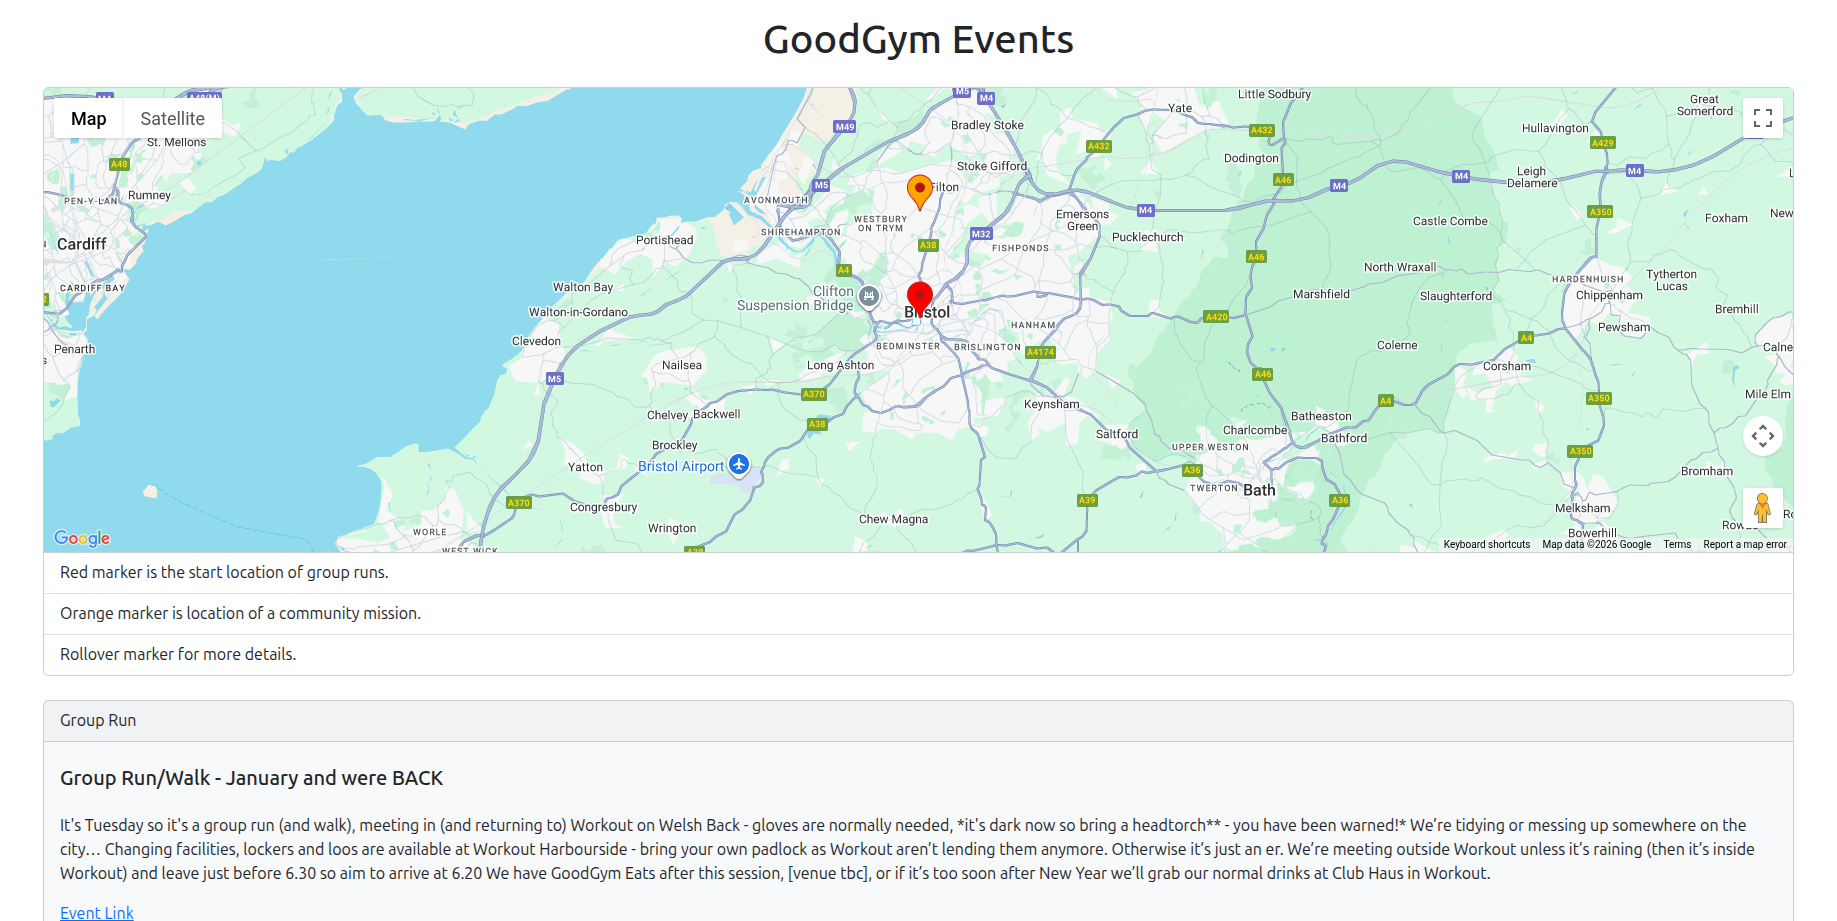
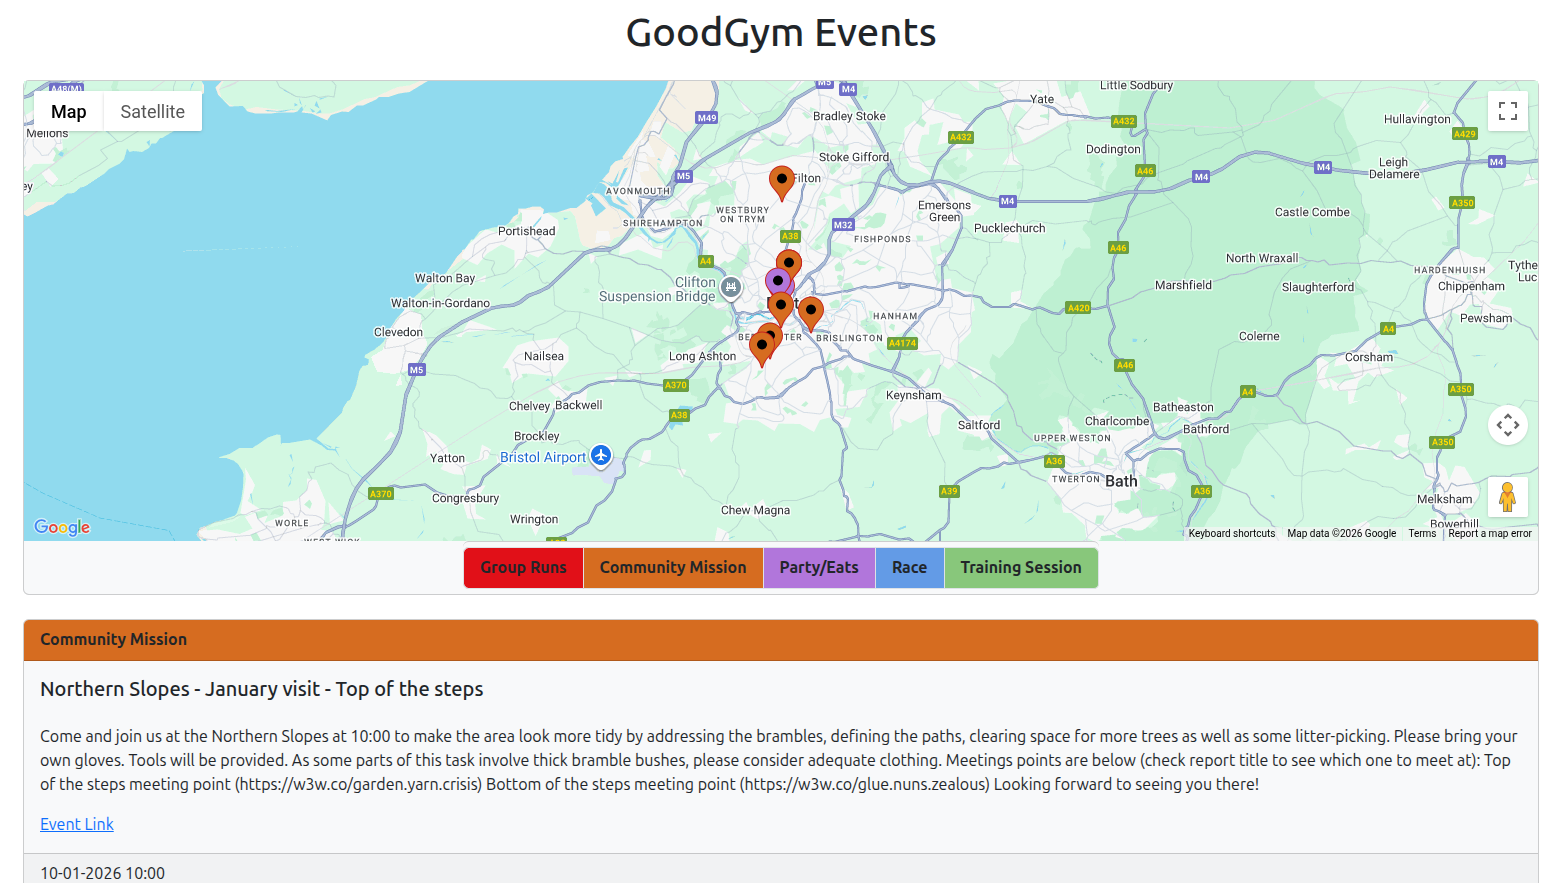
Add colours to the events in list

diff --git a/app/routes/home.tsx b/app/routes/home.tsx
@@ -91,7 +91,7 @@ export default function Home({
 
           {events.map((ev: any) => (
             <Card key={ev.id} bg="light" text="dark" className="m-4">
-              <Card.Header className="mb-2">
+              <Card.Header className={ev.data.programme.name.replace(' ', '-').toLowerCase()}>
                 {ev.data.programme.name}
               </Card.Header>
               <Card.Body>
